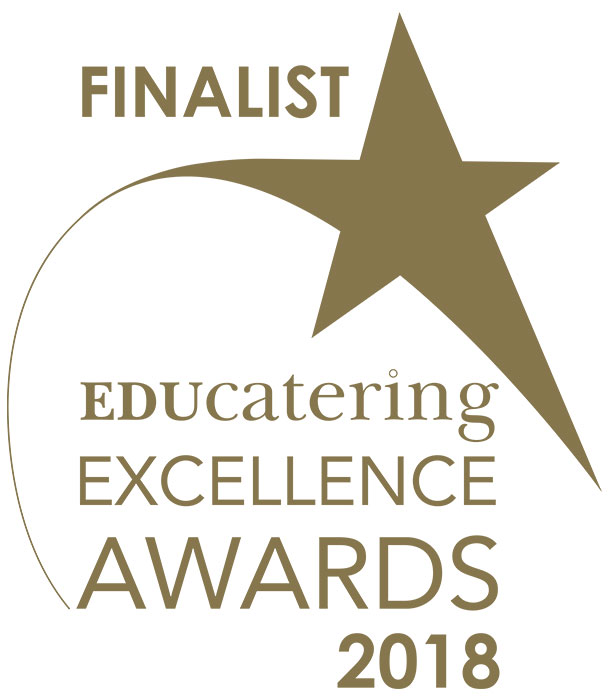
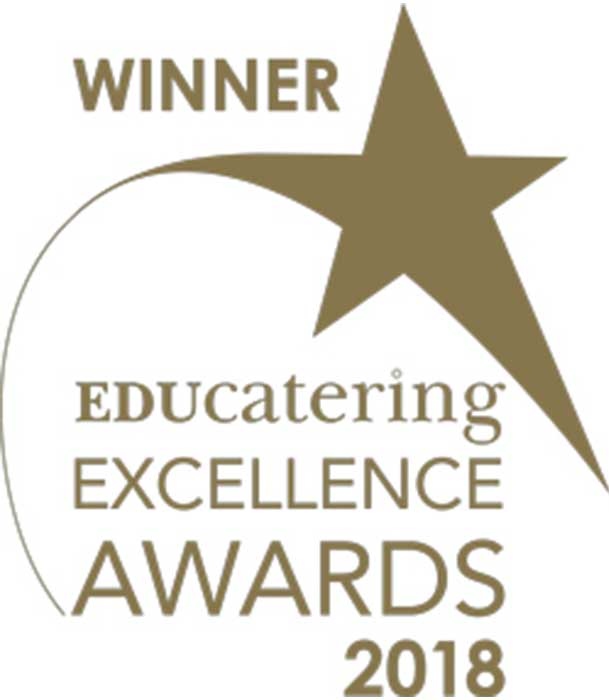
Educating Winner Award

diff --git a/includes/footer.html b/includes/footer.html
@@ -42,7 +42,7 @@
 
                 <li>
 	                <a href="/catering.php">
-	                	<img class="footer-award-sqa" src="/images/awards/educatering.png" alt="Educatering Excellence Award">
+	                	<img class="footer-award-sqa" src="/images/awards/educatering-2018.jpg" alt="Educatering Excellence Award">
 	                </a>
                 </li>
 

diff --git a/catering.php b/catering.php
@@ -127,11 +127,11 @@
             </div>
             <div class="row">
                 <div class="columns">
-                    <h4>Educatering Excellence Award 2018</h4>
+                    <h4>Educatering Excellence Award 2018 - Winner</h4>
                     <p>Self-Managed School Caterer of the Year - <strong>Steven Cross</strong></p>
-                    <h4>Educatering Excellence Award 2017</h4>
+                    <h4>Educatering Excellence Award 2017 - Finalist</h4>
                     <p>Secondary School Caterer of the Year - <strong>Steven Cross</strong></p>
-                    <h4>Educatering Excellence Award 2016</h4>
+                    <h4>Educatering Excellence Award 2016 - Finalist</h4>
                     <p>Newcomer of the Year - <strong>Steven Cross</strong></p>
                     <p>Employees who are new to a company or are in a new role within their existing company who have made an impact within the past 2 years.</p>
                     <p>Judges look for evidence based examples of how the individual has shown outstanding commitment to their new roles and enhanced the performance of the school meal provision.</p>

diff --git a/index.php b/index.php
@@ -98,12 +98,11 @@
                     </div> -->
 
                     <div class="medium-offset-1 medium-10 large-offset-0 large-12">
-                        <a href="/news.php#communityimpact">
+                        <a href="/catering.php">
                             <div class="homepage-slider">
-                                <div><img src="images/news/communityimpact/community_impact_award_1_slider.jpg" alt="Winners of The Community Impact Award"></div>
-                                <div><img src="images/news/communityimpact/community_impact_award_2_slider.jpg" alt="Winners of The Community Impact Award"></div>
+                                <div><img src="images/news/catering/educating_winner.jpg" alt="Winners of The Educatering Award 2018"></div>
                             </div>
-                            <p class="subheader text-center">Community Impact Award</p>
+                            <p class="subheader text-center">Educatering 2018 Winner</p>
                         </a>
                     </div>
                     
